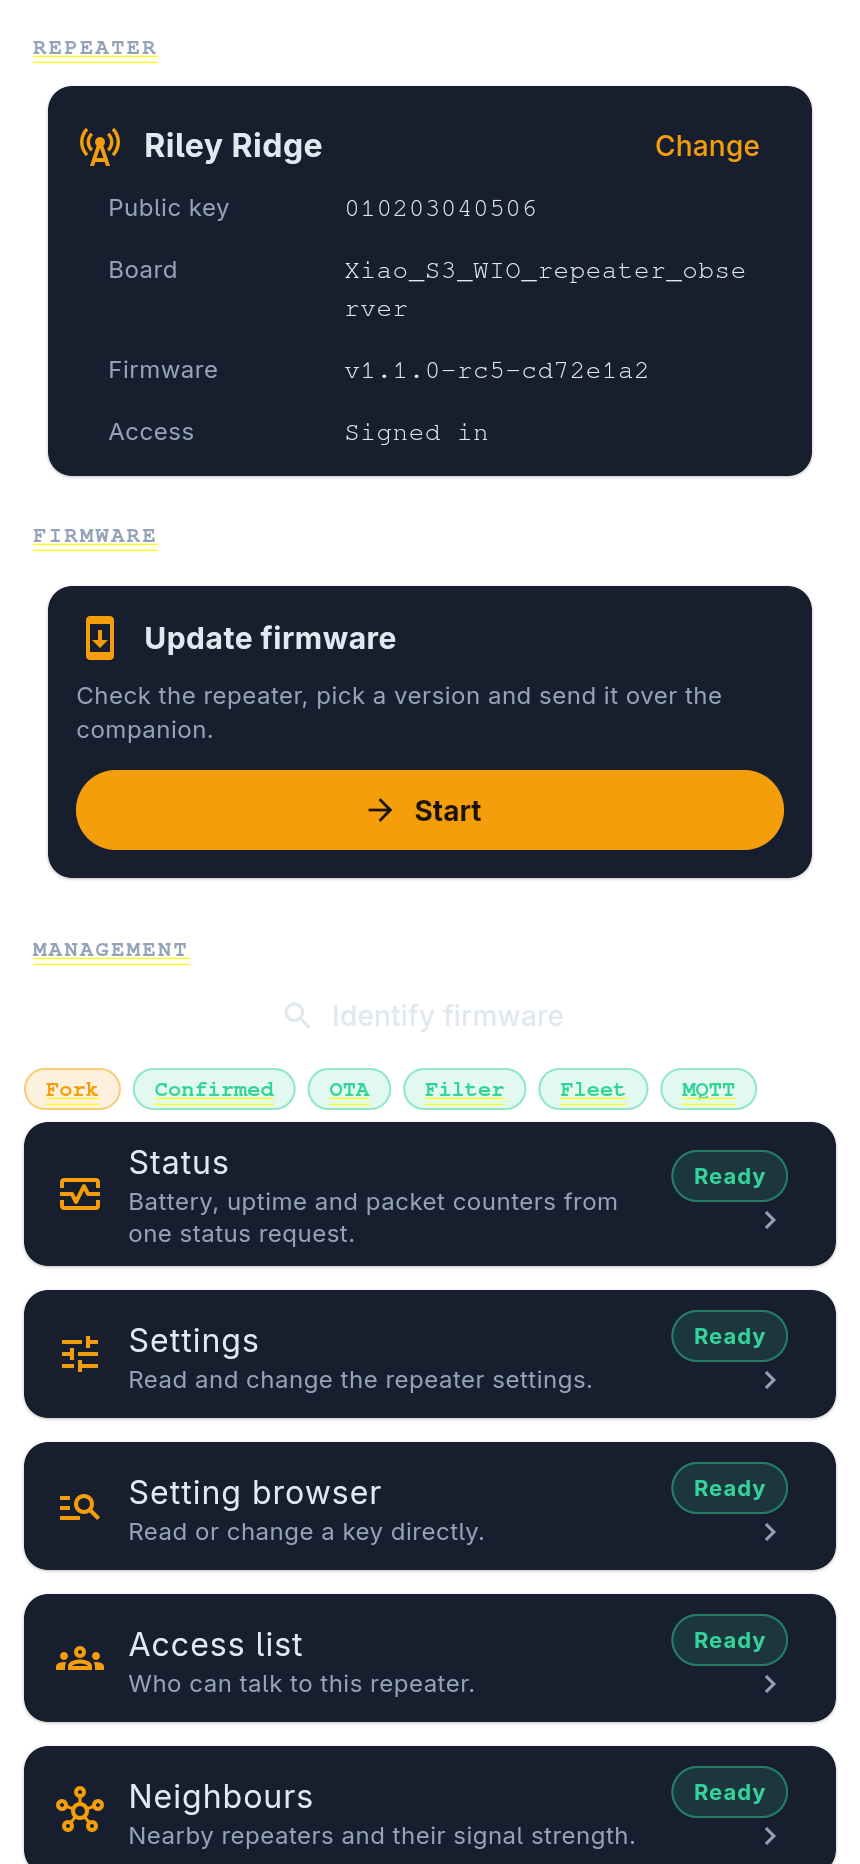
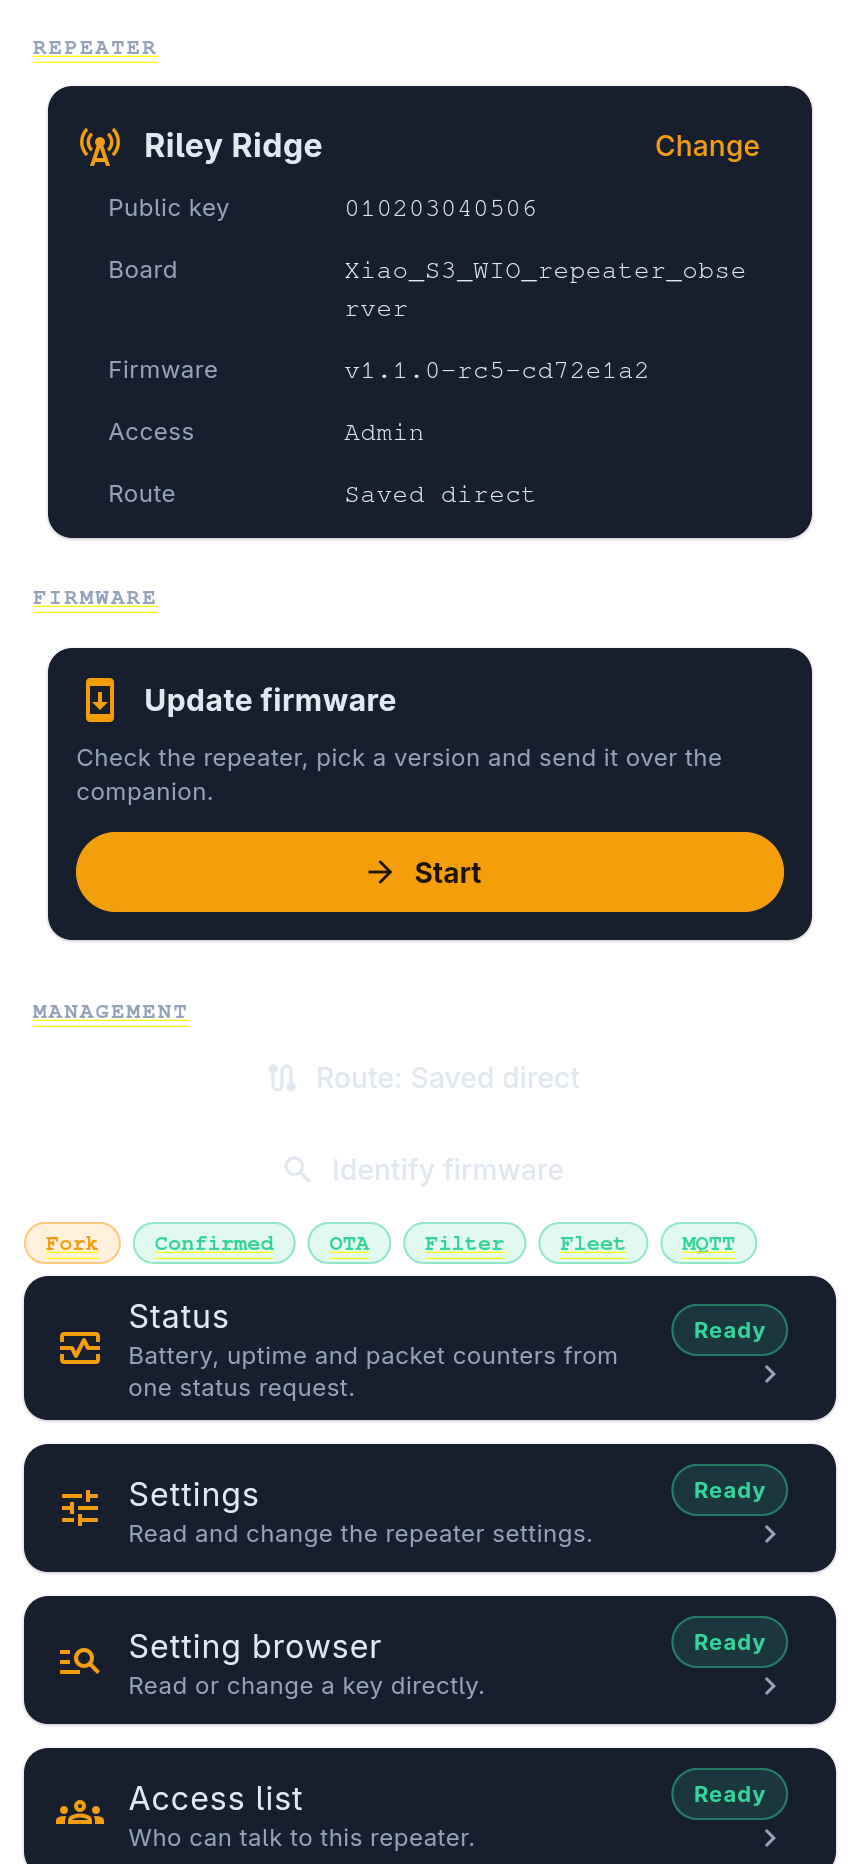
docs: add management screenshots, bench probes and compatibility note

diff --git a/bench/bin/bench.dart b/bench/bin/bench.dart
@@ -21,6 +21,9 @@
 //   delta     same, but base-matched (OP_COPY reuse) against --base
 //   reject    arm/transfer failure modes (bad token, SHA mismatch, gap, abort)
 //   rollback  `ota rollback` after a successful apply
+//   filter    read-only filter status, first rule page and counters
+//   fleet     read-only fleet status and tags, plus a dry-run script preview
+//   wifiota   read-only board check for the stock HTTP update page
 import 'dart:async';
 import 'dart:io';
 import 'dart:typed_data';
@@ -30,6 +33,7 @@ import 'package:crypto/crypto.dart';
 import 'package:device_link/device_link.dart';
 import 'package:mesh_protocol/mesh_protocol.dart';
 import 'package:ota_core/ota_core.dart';
+import 'package:repeater_core/repeater_core.dart';
 
 // --- result bookkeeping -----------------------------------------------------
 
@@ -373,6 +377,51 @@ class Bench {
 }
 
 // --- scenarios --------------------------------------------------------------
+
+/// Read-only filter probe. No rule is added, removed or reordered.
+Future<void> scenarioFilter(Bench b) async {
+  info('\n== filter (read only) ==');
+  final status = await b.cli('filter');
+  final rules = await b.cli('filter list 0');
+  final stats = await b.cli('filter stats');
+  info('  status: ${status.replaceAll('\n', ' | ')}');
+  info('  rules:  ${rules.replaceAll('\n', ' | ')}');
+  info('  stats:  ${stats.replaceAll('\n', ' | ')}');
+  check('filter probe made no changes', status.isNotEmpty || rules.isNotEmpty);
+}
+
+/// Read-only fleet probe. The example script is composed locally and printed;
+/// it is never sent, so no job can run on the bench node.
+Future<void> scenarioFleet(Bench b) async {
+  info('\n== fleet (read only) ==');
+  final status = await b.cli('fleet');
+  final tags = await b.cli('fleet tag list');
+  info('  status: ${status.replaceAll('\n', ' | ')}');
+  info('  tags:   ${tags.replaceAll('\n', ' | ')}');
+  final example = composeJob(const FleetJob(
+    id: 'bench-dry-run',
+    ack: true,
+    commands: ['ver'],
+  ));
+  info('  example script (not sent): ${example.replaceAll('\n', ' | ')}');
+  check('fleet probe made no changes', status.isNotEmpty);
+}
+
+/// WiFi update is deliberately not armed here: `start ota` opens an HTTP
+/// server on the repeater and there is no remote CLI to close it. This only
+/// reports whether the board is expected to support the stock page.
+Future<void> scenarioWifiOta(Bench b) async {
+  info('\n== wifi ota (read only) ==');
+  final board = await b.cli('board');
+  final version = await b.cli('version');
+  final looksEsp32 = board.toLowerCase().contains('esp') ||
+      version.toLowerCase().contains('esp32');
+  info('  board:   $board');
+  info('  version: $version');
+  info('  start ota is not run: it opens an HTTP server on the node.');
+  check('board is an ESP32 candidate for WiFi update', looksEsp32,
+      '$board / $version');
+}
 
 Future<void> scenarioProbe(Bench b) async {
   info('\n== probe ==');
@@ -900,6 +949,12 @@ Future<void> main(List<String> argv) async {
             await scenarioResumeFull(b, image);
           case 'rollback':
             await scenarioRollback(b);
+          case 'filter':
+            await scenarioFilter(b);
+          case 'fleet':
+            await scenarioFleet(b);
+          case 'wifiota':
+            await scenarioWifiOta(b);
           case '':
             break;
           default:

diff --git a/app/integration_test/guide_screenshots_test.dart b/app/integration_test/guide_screenshots_test.dart
@@ -23,8 +23,14 @@ import 'package:repeater_core/repeater_core.dart';
 
 import 'package:meshcore_repeater_manager/app_state.dart';
 import 'package:meshcore_repeater_manager/screens/connect_screen.dart';
+import 'package:meshcore_repeater_manager/screens/management/filter_rule_editor_screen.dart';
+import 'package:meshcore_repeater_manager/screens/management/fleet_composer_screen.dart';
+import 'package:meshcore_repeater_manager/screens/management/fleet_results_screen.dart';
+import 'package:meshcore_repeater_manager/screens/management/settings_screen.dart';
+import 'package:meshcore_repeater_manager/shell/connection_sheet.dart';
 import 'package:meshcore_repeater_manager/shell/repeater_hub_screen.dart';
 import 'package:meshcore_repeater_manager/screens/firmware_screen.dart';
+import 'package:meshcore_repeater_manager/services/ack_collector.dart';
 import 'package:meshcore_repeater_manager/screens/login_screen.dart';
 import 'package:meshcore_repeater_manager/screens/radio_settings_screen.dart';
 import 'package:meshcore_repeater_manager/screens/review_screen.dart';
@@ -250,6 +256,68 @@ List<_Shot> _shots() {
       state: _signedInApp,
       prepare: seedLibrary,
       screen: (_) => const FirmwareScreen(updateMode: false),
+    ),
+    _Shot(
+      file: '10-settings.png',
+      state: () {
+        final app = _signedInApp();
+        app.loginPermission = 3;
+        return app;
+      },
+      screen: (app) => RepeaterSettingsScreen(
+          cli: fix.fakeCli(replies: {
+        'get repeat': '> on',
+        'get name': '> Riley Ridge',
+        'get advert.interval': '> 600',
+      })),
+    ),
+    _Shot(
+      file: '11-filter-assistant.png',
+      state: () {
+        final app = _signedInApp();
+        app.loginPermission = 3;
+        return app;
+      },
+      screen: (app) => const FilterRuleEditorScreen(),
+    ),
+    _Shot(
+      file: '12-fleet-composer.png',
+      state: () {
+        final app = _signedInApp();
+        app.loginPermission = 3;
+        app.fleetPsk = '11' * 16;
+        return app;
+      },
+      screen: (app) => FleetComposerScreen(
+        availableTags: const ['north', 'roof'],
+        psk: app.fleetPsk,
+      ),
+    ),
+    _Shot(
+      file: '13-fleet-results.png',
+      state: () {
+        final app = _signedInApp();
+        app.loginPermission = 3;
+        app.ackCollector.track(FleetJobResult(
+          id: 'job-2026-11-21',
+          script: '!id job-2026-11-21\n!ack\nver',
+          sentAt: DateTime.utc(2026, 11, 21, 10, 30),
+          tags: const ['north'],
+        ));
+        app.ackCollector.handleText('Riley Ridge', 'job-2026-11-21 OK');
+        return app;
+      },
+      screen: (_) => const FleetResultsScreen(),
+    ),
+    _Shot(
+      file: '14-connection.png',
+      state: () {
+        final app = _signedInApp();
+        app.connectionPhase = ConnectionPhase.connected;
+        app.companionName = 'MeshCore-nc3';
+        return app;
+      },
+      screen: (_) => const Scaffold(body: ConnectionSheet()),
     ),
   ];
 }

diff --git a/AGENTS.md b/AGENTS.md
@@ -41,7 +41,8 @@ accurate.
   shared CLI service and last-known labels. `lib/shell/routing_sheet.dart`
   owns the global per-repeater path override. Secrets are opt-in through
   `services/secret_store.dart`; the admin password and WiFi password are never
-  eligible.
+  eligible. `services/wifi_connector.dart` attempts the `MeshCore-OTA` softAP
+  join on desktop with an in-memory fake for tests.
 - `app/test/` — widget and pure-Dart app tests. `support.dart` has the shared
   fixtures (`FakeLibrary`, `Catalog`, `OtaStatus`/`OtaNodeInfo`, `fakeCli`); use
   it for every screen test instead of touching platform plugins. In-memory
@@ -58,17 +59,15 @@ accurate.
 - `packages/companion_client/` — contacts, login, `remoteCli`, message pump.
 - `packages/wifi_ota_core/` — pure-Dart AsyncElegantOTA client with an
   injectable HTTP client, MD5 helper and Multipart upload. Original work, MIT.
-- `app/lib/services/wifi_connector.dart` attempts the `MeshCore-OTA` softAP
-  join on desktop via a narrow OS command, with an in-memory fake for tests.
 - `packages/repeater_core/` — pure-Dart management domain: CLI reply taxonomy,
   read-only capability detection, binary report codecs (status, ACL,
   neighbours, owner info), the settings registry, chart sample metrics, the
   filter dialect/translator/rule codecs with rule-set export/import, the fleet
-  script/ACK codecs, the MQTT
-  key registry/status parsers, the fork-extras codecs, the bulk-settings
-  registry and the tagged binary REQ client. Original work, MIT. The filter dialect mirrors the
-  fork's `PatternMatch` and `TinyRegex`; keep it table-driven and re-check the
-  native filter suite when it changes.
+  script/ACK codecs, the MQTT key registry/status parsers, the fork-extras
+  codecs, the bulk-settings registry and the tagged binary REQ client. Original
+  work, MIT. The filter dialect mirrors the fork's `PatternMatch` and
+  `TinyRegex`; keep it table-driven and re-check the native filter suite when
+  it changes.
 - `packages/test_support/` — dev-only framed TCP client and test plumbing
   (MeshChameleon subtree).
 - `bench/` — hardware harness (never run in CI):

diff --git a/README.md b/README.md
@@ -337,6 +337,12 @@ The app compares the file with the repeater's running firmware on the transfer
 screen and sends only the parts that differ. If the repeater cannot hash its image, it
 sends the whole file.
 
+Management features are discovered by read-only probes, never assumed from a
+version string. The fork features in this guide were exercised against a
+repeater reporting `v1.18.0-ota2` from the `repeater-filter` branch; that build
+is recorded here as the tested reference, not as a minimum version. A node that
+answers differently simply keeps the matching tiles locked.
+
 A custom file has no board name, so the app uses the board the repeater
 reports. If the repeater did not answer that check, the app retries the handshake
 with a longer timeout; if that fails too, it asks you to pick a board before
@@ -389,6 +395,18 @@ a wrong file cannot be installed by mistake.
 | Repeater list | Firmware library |
 |---|---|
 | ![Repeaters](docs/images/02-repeater.png) | ![Library](docs/images/09-library.png) |
+
+| Settings | Filter assistant |
+|---|---|
+| ![Settings](docs/images/10-settings.png) | ![Filter assistant](docs/images/11-filter-assistant.png) |
+
+| Fleet composer | Job results |
+|---|---|
+| ![Fleet composer](docs/images/12-fleet-composer.png) | ![Job results](docs/images/13-fleet-results.png) |
+
+| Connection sheet | Repeater hub |
+|---|---|
+| ![Connection](docs/images/14-connection.png) | ![Hub](docs/images/00-hub.png) |
 
 ## How it works (short version)
 

diff --git a/CHANGELOG.md b/CHANGELOG.md
@@ -8,6 +8,8 @@ All notable changes to MeshCoreRepeaterManager are documented here. The format f
 
 ### Added
 
+- **Bench probes and guide screenshots for management.** The hardware harness gains read-only `filter`, `fleet` and `wifiota` scenarios, so management behaviour can be checked on a bench without changing node state. The user guide now captures settings, the filter assistant, the fleet composer, job results and the connection sheet beside the hub.
+
 - **Management is locked during an update and serial-only limits are explained.** While staging, transfer, apply or verification is active, management tiles and the route/identify controls are locked so no command can interleave with the windowed transfer. The command line now lists the operations that need physical or serial access and the remote alternative for each.
 
 - **Filter rule backup and restore.** The filter screen exports the current rules as schema-versioned JSON or as ready to paste `filter add` commands. Import validates the whole set before anything is sent, reports the reason for a bad rule, and sends the exact commands after validation. The audit log can now be filtered by time range, family, outcome and repeater, and its export always covers the whole log.
